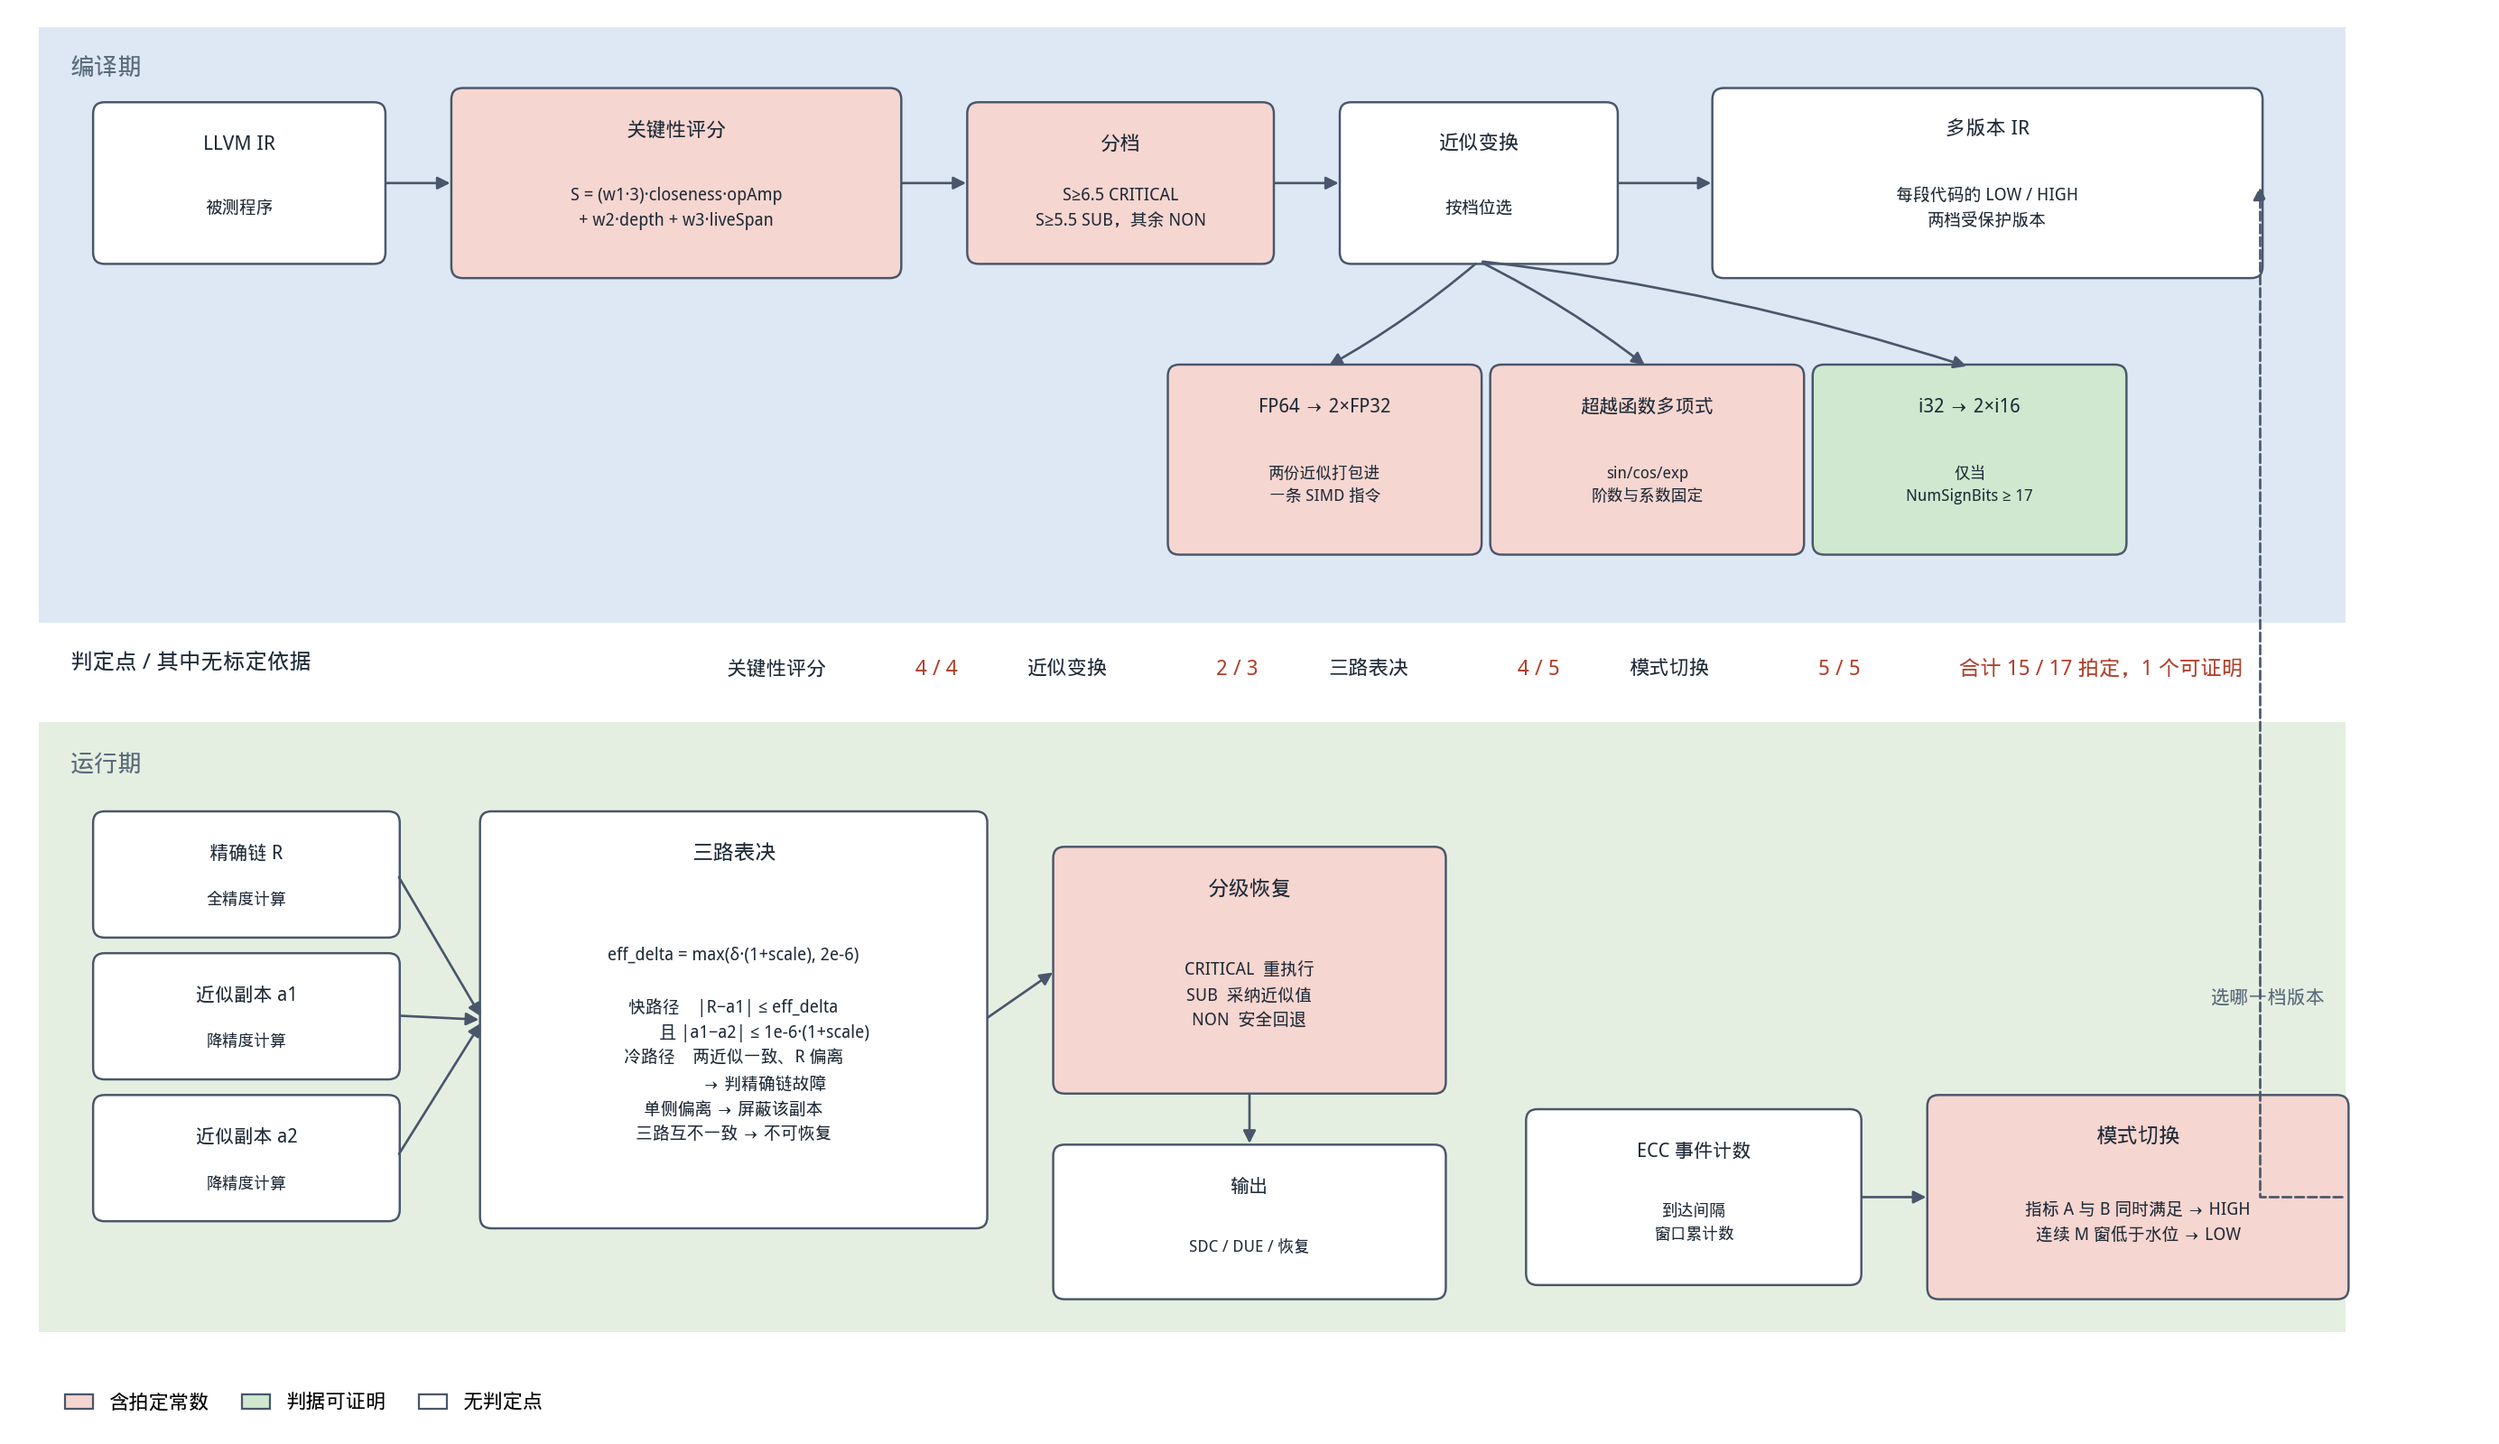
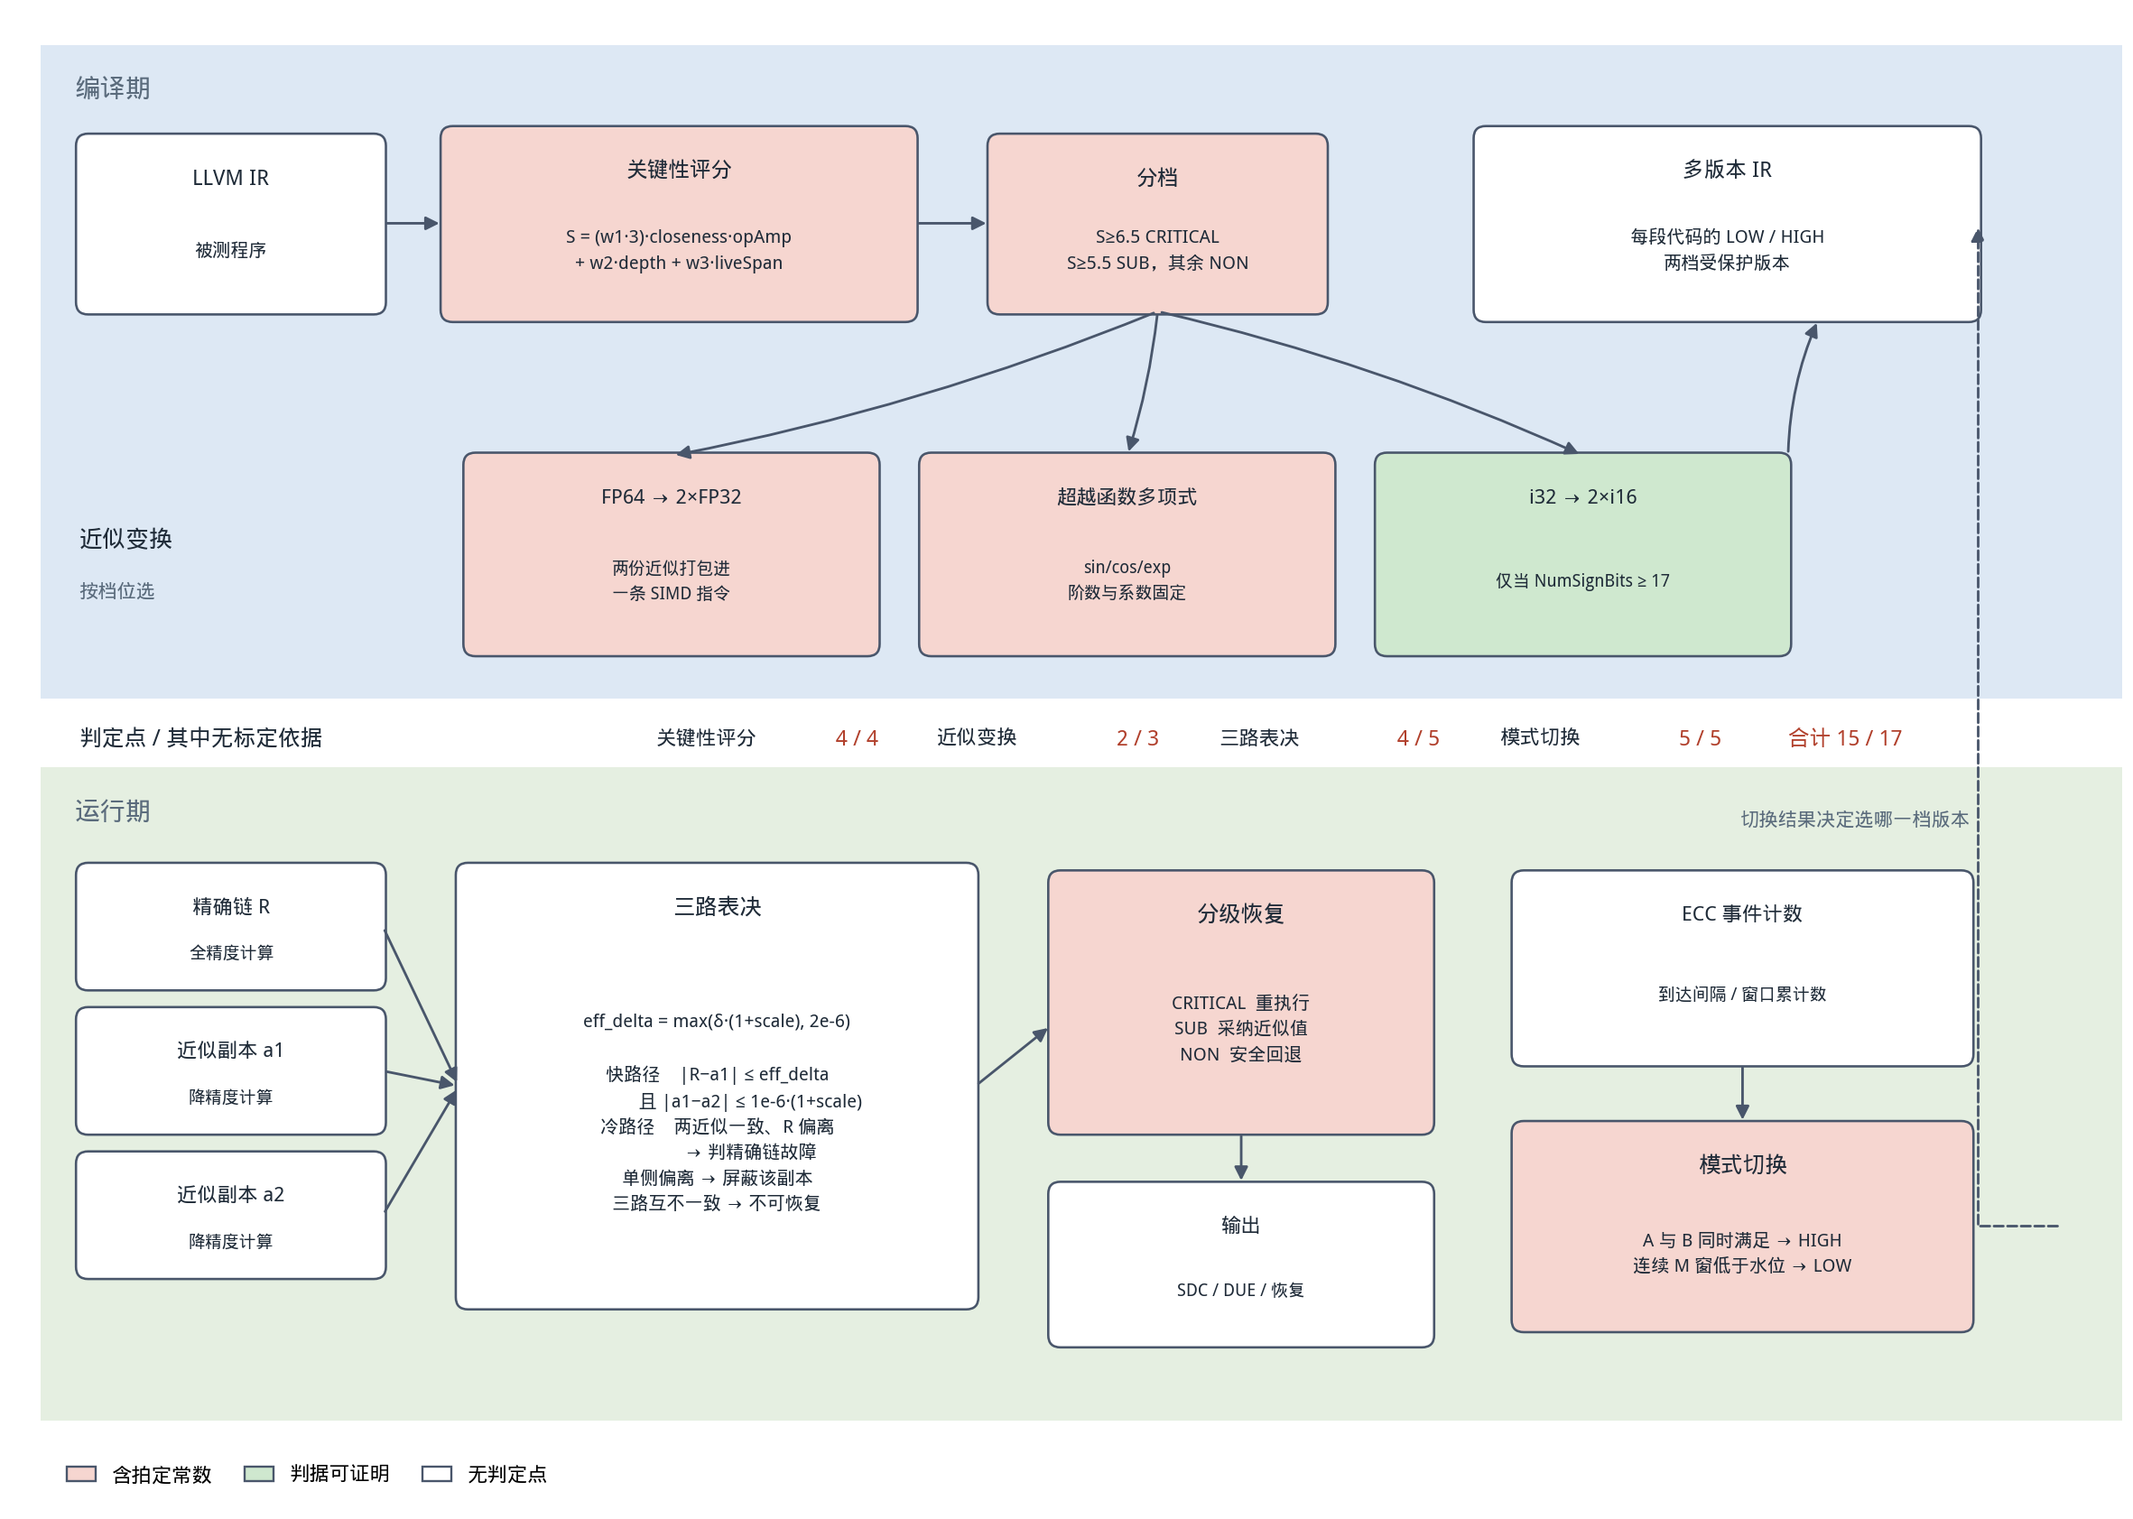
docs: 方法总体图改为两行编译期布局，删掉图下的脚本说明

diff --git a/docs/figures/method_overview.py b/docs/figures/method_overview.py
@@ -59,99 +59,94 @@ def lane(ax, y, h, label, fc):
 
 
 def main():
-    fig, ax = plt.subplots(figsize=(17.3, 10))
-    ax.set_xlim(0, 17.3)
-    ax.set_ylim(0, 10.1)
+    fig, ax = plt.subplots(figsize=(13.9, 9.9))
+    ax.set_xlim(0, 13.9)
+    ax.set_ylim(0, 9.9)
     ax.axis("off")
 
-    lane(ax, 5.75, 4.2, "编译期", C_COMPILE)
-    lane(ax, 0.75, 4.3, "运行期", C_RUNTIME)
+    lane(ax, 5.35, 4.3, "编译期", C_COMPILE)
+    lane(ax, 0.6, 4.3, "运行期", C_RUNTIME)
 
     # ---------------- 编译期 ----------------
-    box(ax, 0.6, 8.3, 2.0, 1.1, "LLVM IR", "被测程序")
-    box(ax, 3.1, 8.2, 3.1, 1.3, "关键性评分",
+    box(ax, 0.45, 7.9, 2.0, 1.15, "LLVM IR", "被测程序")
+    box(ax, 2.85, 7.85, 3.1, 1.25, "关键性评分",
         "S = (w1·3)·closeness·opAmp\n+ w2·depth + w3·liveSpan", fc=C_TUNED)
-    box(ax, 6.7, 8.3, 2.1, 1.1, "分档",
+    box(ax, 6.45, 7.9, 2.2, 1.15, "分档",
         "S≥6.5 CRITICAL\nS≥5.5 SUB，其余 NON", fc=C_TUNED)
-    box(ax, 9.3, 8.3, 1.9, 1.1, "近似变换", "按档位选")
-    box(ax, 11.9, 8.2, 3.8, 1.3, "多版本 IR",
+    box(ax, 9.65, 7.85, 3.3, 1.25, "多版本 IR",
         "每段代码的 LOW / HIGH\n两档受保护版本")
+    arrow(ax, (2.45, 8.48), (2.85, 8.48))
+    arrow(ax, (5.95, 8.48), (6.45, 8.48))
 
-    for x, t, b, fc in (
-            (8.1, "FP64 → 2×FP32", "两份近似打包进\n一条 SIMD 指令", C_TUNED),
-            (10.35, "超越函数多项式", "sin/cos/exp\n阶数与系数固定", C_TUNED),
-            (12.6, "i32 → 2×i16", "仅当\nNumSignBits ≥ 17", C_PROVEN)):
-        box(ax, x, 6.25, 2.15, 1.3, t, b, fc=fc, fs=9.5, bfs=8)
-
-    arrow(ax, (2.6, 8.85), (3.1, 8.85))
-    arrow(ax, (6.2, 8.85), (6.7, 8.85))
-    arrow(ax, (8.8, 8.85), (9.3, 8.85))
-    arrow(ax, (11.2, 8.85), (11.9, 8.85))
-    for xt in (9.18, 11.43, 13.68):
-        arrow(ax, (10.25, 8.3), (xt, 7.55), rad=-0.05)
+    ax.text(0.45, 6.35, "近似变换", fontsize=11, weight="bold", color=C_TEXT)
+    ax.text(0.45, 6.02, "按档位选", fontsize=9, color="#5a6b7c")
+    for x, t_, b_, fc in (
+            (3.0, "FP64 → 2×FP32", "两份近似打包进\n一条 SIMD 指令", C_TUNED),
+            (6.0, "超越函数多项式", "sin/cos/exp\n阶数与系数固定", C_TUNED),
+            (9.0, "i32 → 2×i16", "仅当 NumSignBits ≥ 17", C_PROVEN)):
+        box(ax, x, 5.65, 2.7, 1.3, t_, b_, fc=fc, fs=9.5, bfs=8)
+    for xt in (4.35, 7.35, 10.35):
+        arrow(ax, (7.55, 7.9), (xt, 6.95), rad=-0.05)
+    arrow(ax, (11.7, 6.95), (11.9, 7.85), rad=-0.1)
 
     # ---------------- 判定点统计带 ----------------
-    ax.text(0.42, 5.42, "判定点 / 其中无标定依据", fontsize=11,
-            weight="bold", color=C_TEXT)
-    stats = [("关键性评分", "4 / 4"), ("近似变换", "2 / 3"),
-             ("三路表决", "4 / 5"), ("模式切换", "5 / 5")]
-    for i, (name, ratio) in enumerate(stats):
-        x = 5.0 + i * 2.1
-        ax.text(x, 5.42, name, fontsize=10, color=C_TEXT, va="center")
-        ax.text(x + 1.32, 5.42, ratio, fontsize=10.5, color=C_WARN,
+    ax.text(0.45, 5.08, "判定点 / 其中无标定依据", fontsize=10.5,
+            weight="bold", color=C_TEXT, va="center")
+    for i, (name, ratio) in enumerate(
+            (("关键性评分", "4 / 4"), ("近似变换", "2 / 3"),
+             ("三路表决", "4 / 5"), ("模式切换", "5 / 5"))):
+        x = 4.25 + i * 1.85
+        ax.text(x, 5.08, name, fontsize=9.5, color=C_TEXT, va="center")
+        ax.text(x + 1.18, 5.08, ratio, fontsize=10, color=C_WARN,
                 weight="bold", va="center")
-    ax.text(13.6, 5.42, "合计 15 / 17 拍定，1 个可证明",
-            fontsize=10.5, color=C_WARN, weight="bold", va="center")
+    ax.text(11.7, 5.08, "合计 15 / 17", fontsize=10, color=C_WARN,
+            weight="bold", va="center")
 
     # ---------------- 运行期 ----------------
-    for i, t in enumerate(("精确链 R", "近似副本 a1", "近似副本 a2")):
-        body = "全精度计算" if i == 0 else "降精度计算"
-        box(ax, 0.6, 3.55 - i * 1.0, 2.1, 0.85, t, body, fs=9.5, bfs=8)
+    for i, t_ in enumerate(("精确链 R", "近似副本 a1", "近似副本 a2")):
+        box(ax, 0.45, 3.45 - i * 0.95, 2.0, 0.8, t_,
+            "全精度计算" if i == 0 else "降精度计算", fs=9.5, bfs=8)
 
-    box(ax, 3.3, 1.5, 3.5, 2.9, "三路表决",
+    box(ax, 2.95, 1.35, 3.4, 2.9, "三路表决",
         "eff_delta = max(δ·(1+scale), 2e-6)\n\n"
         "快路径    |R−a1| ≤ eff_delta\n"
         "              且 |a1−a2| ≤ 1e-6·(1+scale)\n"
         "冷路径    两近似一致、R 偏离\n"
         "              → 判精确链故障\n"
         "单侧偏离 → 屏蔽该副本\n"
-        "三路互不一致 → 不可恢复",
-        fs=10.5, bfs=8.5)
-    for y in (3.98, 2.98, 1.98):
-        arrow(ax, (2.7, y), (3.3, 2.95))
+        "三路互不一致 → 不可恢复", fs=10.5, bfs=8.5)
+    for y in (3.85, 2.9, 1.95):
+        arrow(ax, (2.45, y), (2.95, 2.8))
 
-    box(ax, 7.3, 2.45, 2.7, 1.7, "分级恢复",
+    box(ax, 6.85, 2.5, 2.5, 1.7, "分级恢复",
         "CRITICAL  重执行\nSUB  采纳近似值\nNON  安全回退", fc=C_TUNED,
         fs=10.5, bfs=8.5)
-    arrow(ax, (6.8, 2.95), (7.3, 3.3))
+    arrow(ax, (6.35, 2.8), (6.85, 3.2))
+    box(ax, 6.85, 1.1, 2.5, 1.05, "输出", "SDC / DUE / 恢复", fs=9.5, bfs=8)
+    arrow(ax, (8.1, 2.5), (8.1, 2.15))
 
-    box(ax, 7.3, 1.0, 2.7, 1.05, "输出", "SDC / DUE / 恢复", fs=9.5, bfs=8)
-    arrow(ax, (8.65, 2.45), (8.65, 2.05))
-
-    box(ax, 10.6, 1.1, 2.3, 1.2, "ECC 事件计数", "到达间隔\n窗口累计数",
+    box(ax, 9.9, 2.95, 3.0, 1.25, "ECC 事件计数", "到达间隔 / 窗口累计数",
         fs=9.5, bfs=8)
-    box(ax, 13.4, 1.0, 2.9, 1.4, "模式切换",
-        "指标 A 与 B 同时满足 → HIGH\n连续 M 窗低于水位 → LOW",
-        fc=C_TUNED, fs=10.5, bfs=8.5)
-    arrow(ax, (12.9, 1.7), (13.4, 1.7))
-
-    # 反馈：模式切换 -> 多版本 IR，走最右侧，避开所有方框
-    arrow(ax, (16.3, 1.7), (15.7, 8.85), ls="--",
+    box(ax, 9.9, 1.2, 3.0, 1.35, "模式切换",
+        "A 与 B 同时满足 → HIGH\n连续 M 窗低于水位 → LOW", fc=C_TUNED,
+        fs=10.5, bfs=8.5)
+    arrow(ax, (11.4, 2.95), (11.4, 2.55))
+    arrow(ax, (13.5, 1.88), (12.95, 8.48), ls="--",
           cs="angle,angleA=0,angleB=-90,rad=0")
-    ax.text(16.15, 3.1, "选哪一档版本", fontsize=9.5, color="#5a6b7c",
-            va="center", ha="right")
+    ax.text(12.9, 4.55, "切换结果决定选哪一档版本", fontsize=9,
+            color="#5a6b7c", va="center", ha="right")
 
     legend = [
         mpatches.Patch(facecolor=C_TUNED, edgecolor=C_EDGE, label="含拍定常数"),
         mpatches.Patch(facecolor=C_PROVEN, edgecolor=C_EDGE, label="判据可证明"),
         mpatches.Patch(facecolor="#ffffff", edgecolor=C_EDGE, label="无判定点"),
     ]
-    ax.legend(handles=legend, loc="lower left", bbox_to_anchor=(0.015, 0.005),
-              fontsize=10, frameon=False, ncol=3, handlelength=1.4,
+    ax.legend(handles=legend, loc="lower left", bbox_to_anchor=(0.018, 0.005),
+              fontsize=9.5, frameon=False, ncol=3, handlelength=1.4,
               columnspacing=1.6)
 
-    fig.subplots_adjust(left=0.004, right=0.996, top=0.996, bottom=0.004)
-    fig.savefig(OUT, dpi=160, facecolor="white")
+    fig.subplots_adjust(left=0.005, right=0.995, top=0.995, bottom=0.005)
+    fig.savefig(OUT, dpi=170, facecolor="white")
     print(f"-> {OUT}")
 
 

diff --git a/docs/METHOD.md b/docs/METHOD.md
@@ -7,8 +7,6 @@
 
 ![方法总体](figures/method_overview.png)
 
-图由 `docs/figures/method_overview.py` 生成。
-
 | 模块 | 判定点 | 当前取值 | 依据 |
 |---|---|---|---|
 | 关键性评分 | 三项加权公式 | w1=2.5, w2=1.8, w3=0.8 | 结构有先例，权重拍的 |
